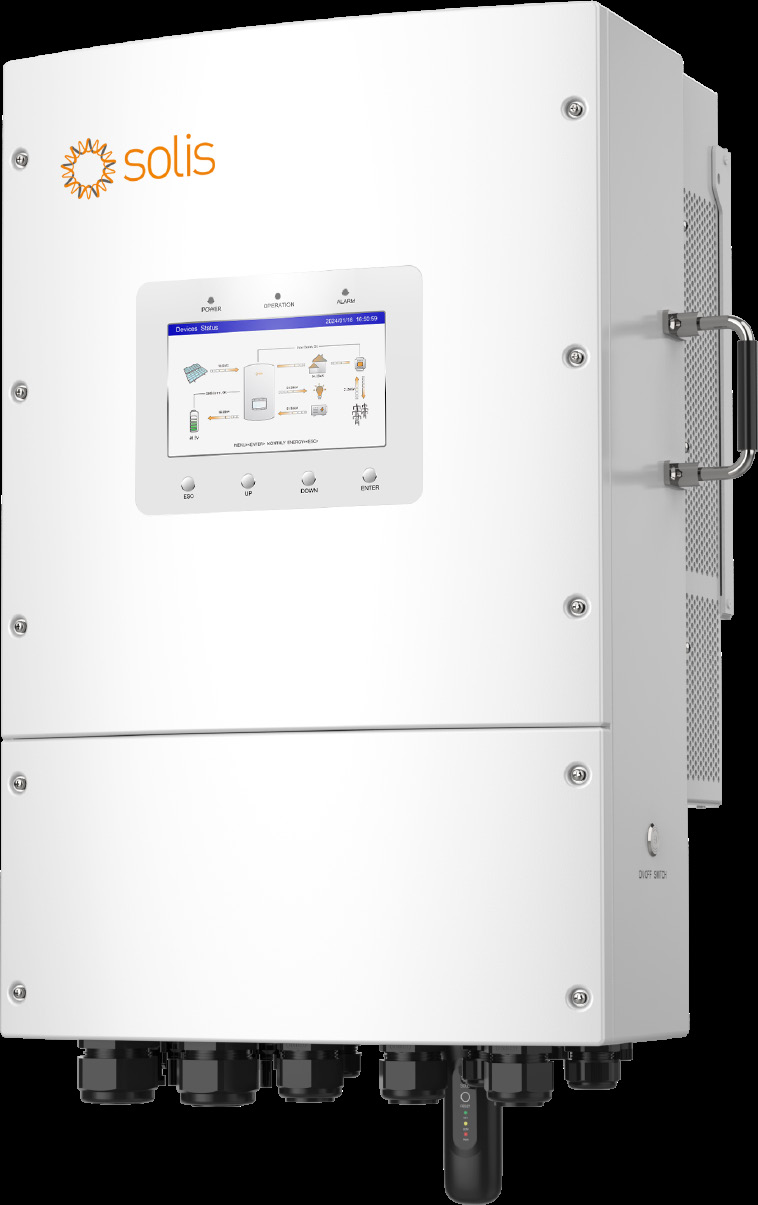
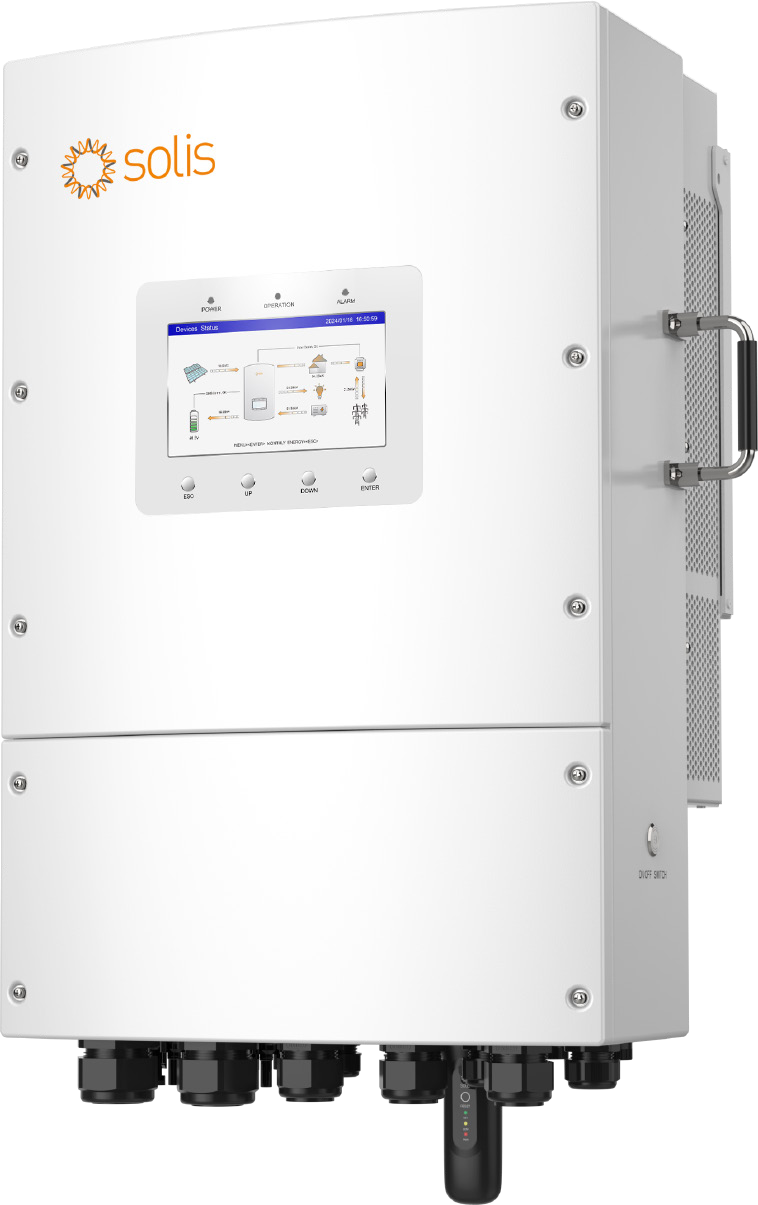
fix: cierne pozadie na 2 fotkach (chybajuci alpha kanal) + duplicitne tlacidlo ponuky pri cene 0€

Changed region(s): [[0.6372, 0.0, 1.0, 1.0], [0.0, 0.8598, 0.6069, 1.0], [0.0, 0.0, 0.6979, 0.2763]]

diff --git a/src/components/product-detail.tsx b/src/components/product-detail.tsx
@@ -441,8 +441,14 @@ export function ProductDetail({ product, serverWholesalePrices, priceHidden }: P
           ) : (
             <div className="rounded-xl border border-border bg-card p-6 space-y-4">
               <div>
-                <p className="text-2xl sm:text-3xl font-bold text-foreground">{formatPrice(product.priceExVat)} € <span className="text-base font-normal text-muted-foreground">bez DPH</span></p>
-                <p className="mt-1 text-muted-foreground">{formatPrice(calculateVatPrice(product.priceExVat, product.vatRate))} € s DPH</p>
+                {product.priceExVat > 0 ? (
+                  <>
+                    <p className="text-2xl sm:text-3xl font-bold text-foreground">{formatPrice(product.priceExVat)} € <span className="text-base font-normal text-muted-foreground">bez DPH</span></p>
+                    <p className="mt-1 text-muted-foreground">{formatPrice(calculateVatPrice(product.priceExVat, product.vatRate))} € s DPH</p>
+                  </>
+                ) : (
+                  <p className="text-2xl sm:text-3xl font-bold text-muted-foreground">Cena na dopyt</p>
+                )}
               </div>
               {product.priceExVat > 0 ? (
                 <div className="flex flex-col gap-3 sm:flex-row">
@@ -460,9 +466,11 @@ export function ProductDetail({ product, serverWholesalePrices, priceHidden }: P
                   Vyžiadať cenovú ponuku
                 </Button>
               )}
-              <Button variant="outline" size="lg" className="w-full gap-2" onClick={() => setModalType("quote")}>
-                Vyžiadať cenovú ponuku
-              </Button>
+              {product.priceExVat > 0 && (
+                <Button variant="outline" size="lg" className="w-full gap-2" onClick={() => setModalType("quote")}>
+                  Vyžiadať cenovú ponuku
+                </Button>
+              )}
             </div>
           )}
 